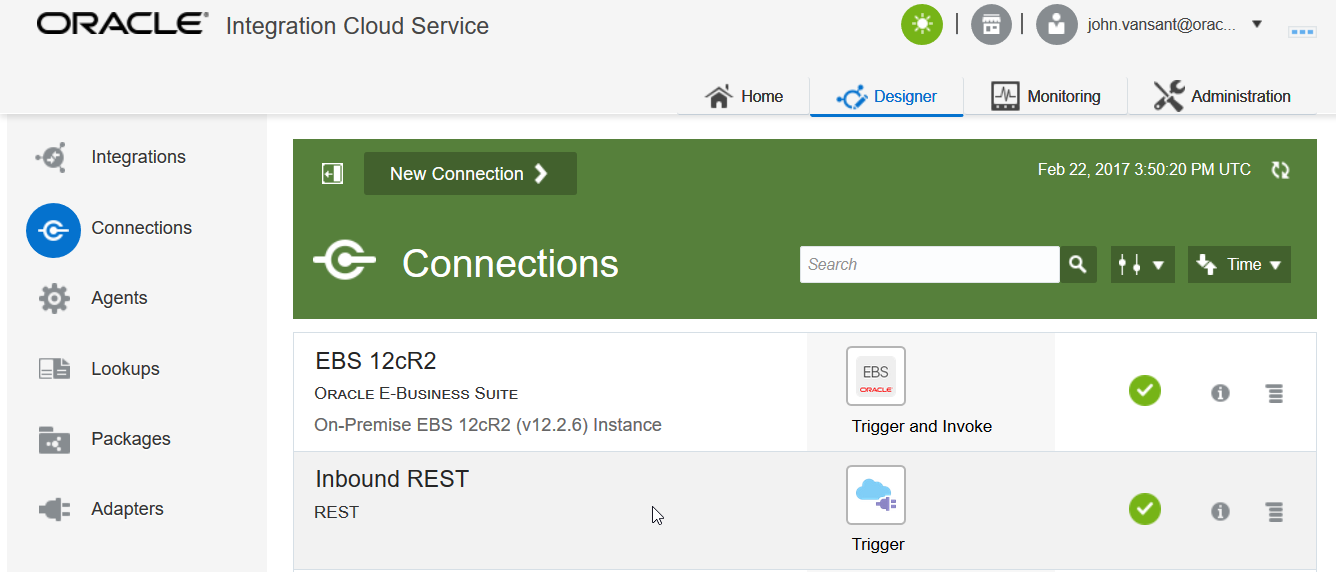
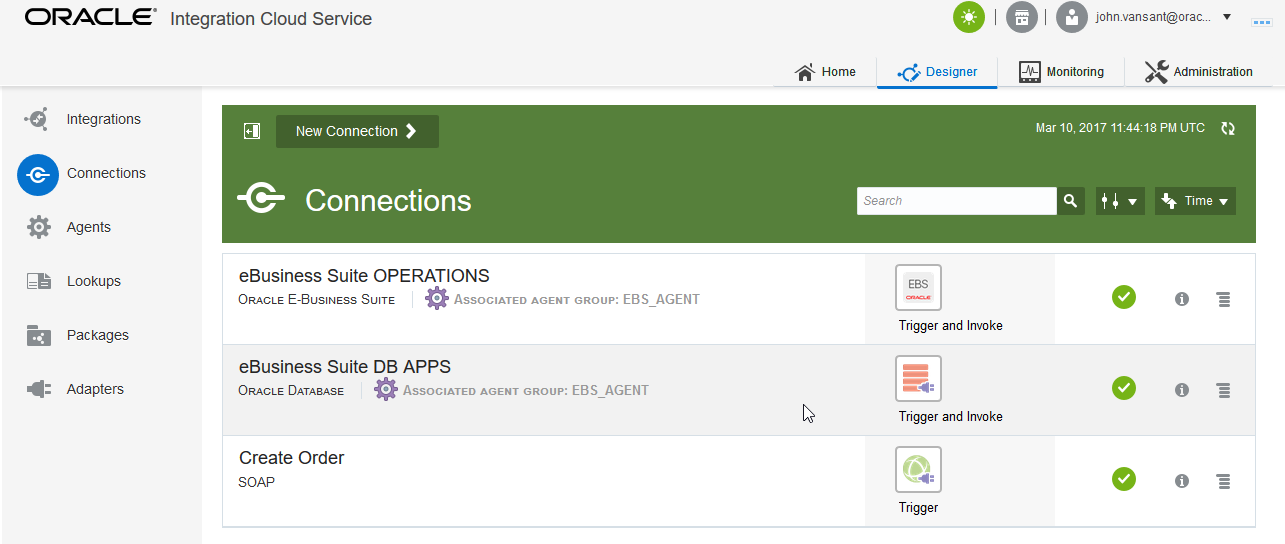
Updated Explore ICS Designer UI

diff --git a/touch-the-cloud/TouchTheCloud300.md b/touch-the-cloud/TouchTheCloud300.md
@@ -25,7 +25,7 @@ Please direct comments to: John VanSant (john.vansant@oracle.com)
 
 # Explore Integration Cloud Service
 
-## Login to Integration Cloud Service
+## Login and Explore the Oracle Cloud Dashboard
 
 ### **STEP 1**: Login to your Oracle Cloud account
 
@@ -88,7 +88,7 @@ The Cloud Dashboard is the launching pad for all the cloud services in your acco
 
 ## Explore the ICS Designer User Interface
 
-### **STEP 1:**	Open ICS Designer
+### **STEP 1:**	Open the ICS Designer
 
 ---
 
@@ -108,9 +108,15 @@ The Cloud Dashboard is the launching pad for all the cloud services in your acco
 
     ![](images/300/image009.png)  
 
-- Make note of the connections that have been created. Notice that there are three connections, one called *EBS 12cR2*, one called *EBS DB* and the other called *Inbound SOAP*.
+- Make note of the connections that have been created. Notice that there are three connections, one called *eBusiness Suite OPERATIONS*, one called *eBusiness Suite DB APPS* and the other called *Create Order*.
 
     ![](images/300/image010.png)  
+
+- Note that both *eBusiness Suite OPERATIONS*, and *eBusiness Suite DB APPS* are using the ICS Connectivity Agent.  You can identify this by the note that it has an associated agent group.  This agent allows ICS to call on-premise systems.
+
+    ![](images/300/image010a.png) 
+
+*(More information about the ICS Connectivity Agent will be given later)*
 
 ### **STEP 3:**	Explore ICS Integrations
 
